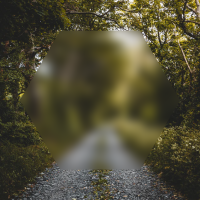
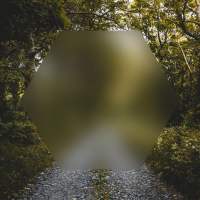
More blur.

diff --git a/README.md b/README.md
@@ -26,7 +26,7 @@ p.polygon(100, 100, 70, sides=6)
 p.closePath()
 var mask = newImage(200, 200)
 mask.fillPath(p, rgba(255, 255, 255, 255))
-blur.blur(10)
+blur.blur(20)
 blur.draw(mask, blendMode = bmMask)
 image.draw(trees)
 image.draw(blur)
